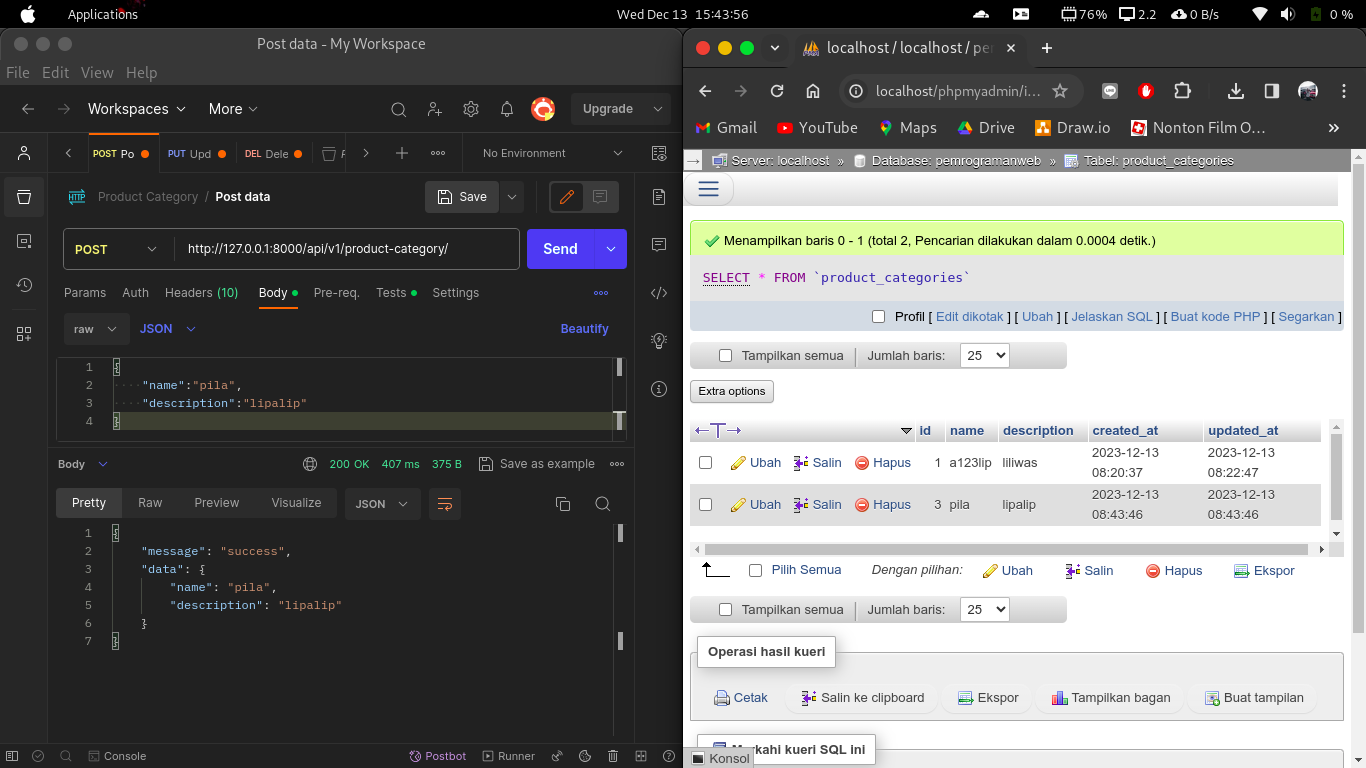
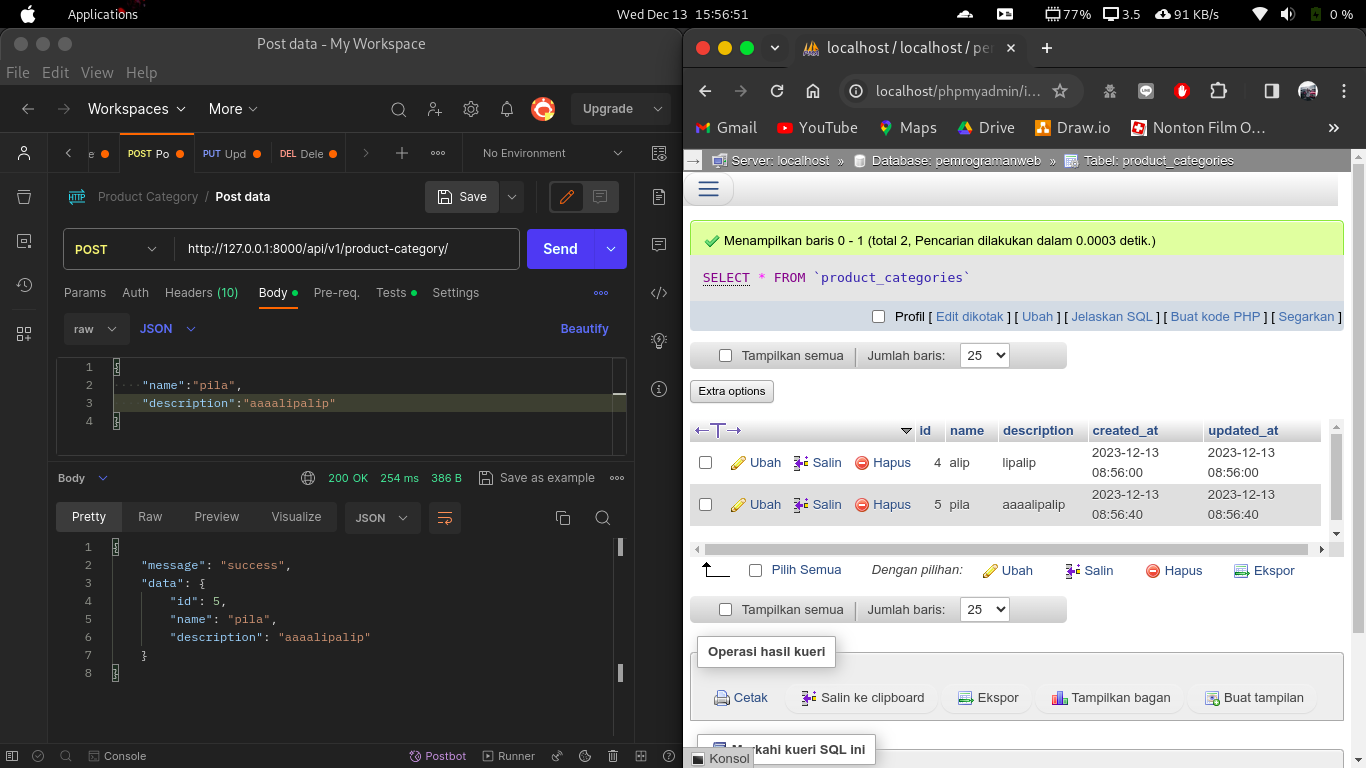
437 - Muhammad Alif Nasrulloh

diff --git a/modul6/laravel-project/app/Http/Resources/ProductCategoryResource.php b/modul6/laravel-project/app/Http/Resources/ProductCategoryResource.php
@@ -15,7 +15,7 @@ class ProductCategoryResource extends JsonResource
     public function toArray(Request $request): array
     {
         return [
-            // "id" => $this->id,
+            "id" => $this->id,
             "name" => $this->name,
             "description" => $this->description
         ];
